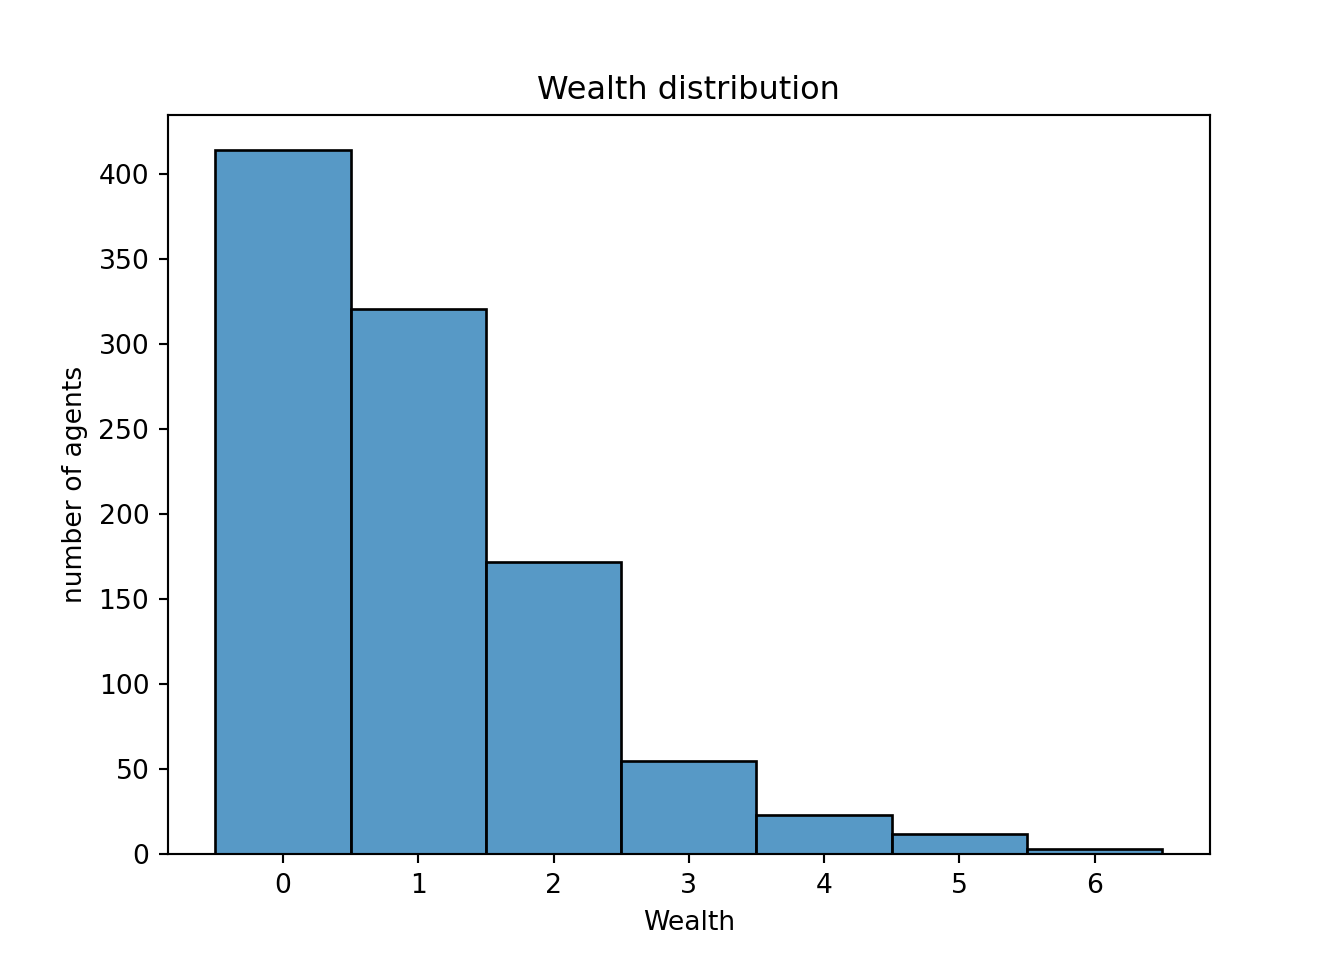
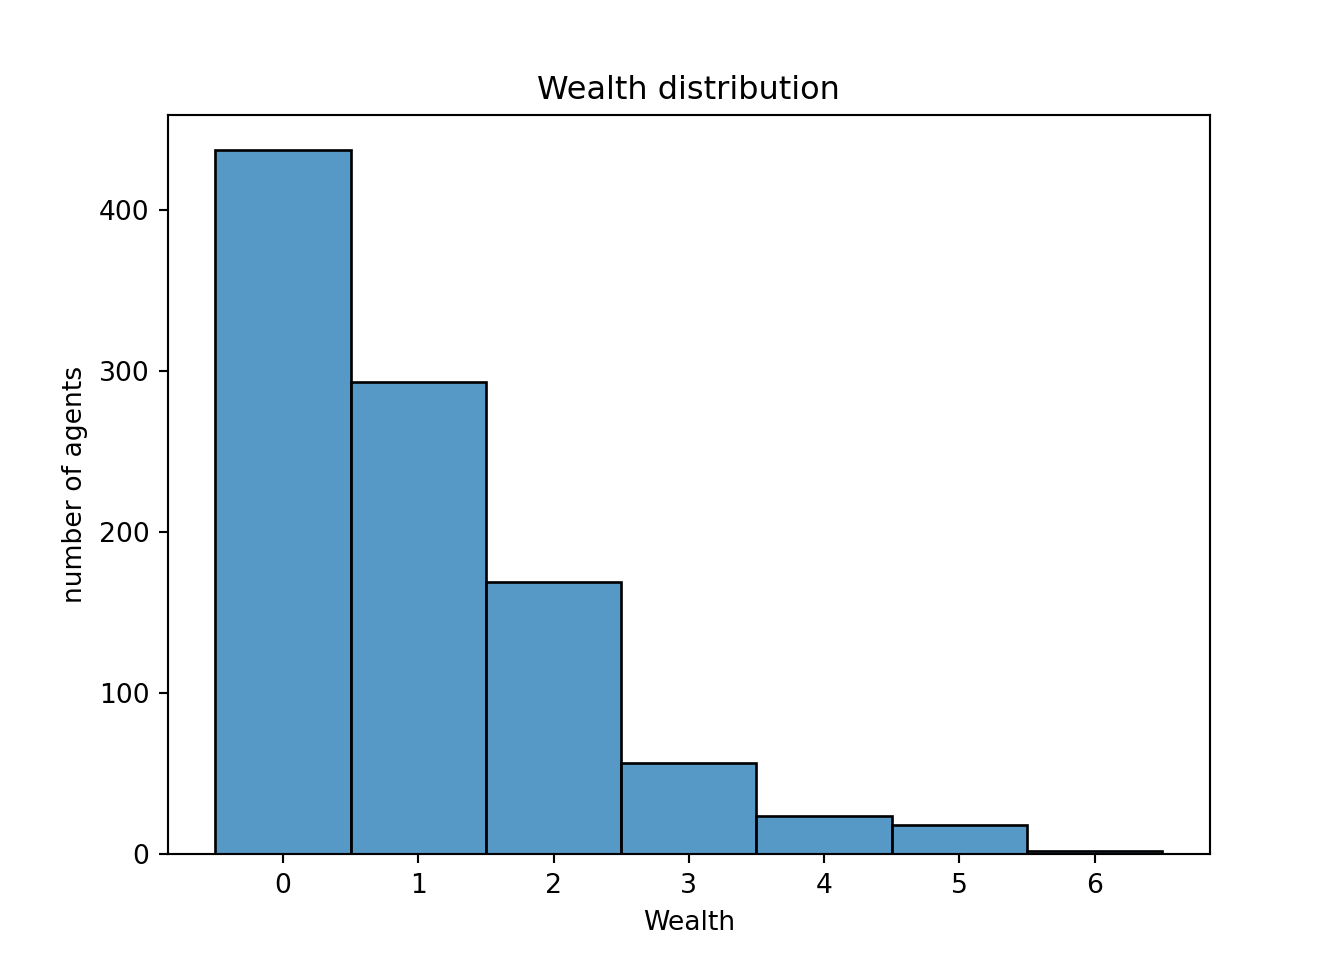
update

diff --git a/docs/index.html b/docs/index.html
@@ -318,16 +318,16 @@ pre > code.sourceCode > span > a:first-child::before { text-decoration: underlin
 <span id="cb7-5"><a href="#cb7-5" aria-hidden="true" tabindex="-1"></a><span class="co">#运行模型的 step 方法，激活所有 Agent</span></span>
 <span id="cb7-6"><a href="#cb7-6" aria-hidden="true" tabindex="-1"></a>starter_model.step()</span></code><button title="Copy to Clipboard" class="code-copy-button"><i class="bi"></i></button></pre></div>
 <div class="cell-output cell-output-stdout">
-<pre><code>Hi, I am an agent, you can call me 10.
-Hi, I am an agent, you can call me 1.
+<pre><code>Hi, I am an agent, you can call me 5.
 Hi, I am an agent, you can call me 8.
-Hi, I am an agent, you can call me 2.
-Hi, I am an agent, you can call me 4.
-Hi, I am an agent, you can call me 9.
+Hi, I am an agent, you can call me 10.
 Hi, I am an agent, you can call me 6.
 Hi, I am an agent, you can call me 7.
-Hi, I am an agent, you can call me 5.
-Hi, I am an agent, you can call me 3.</code></pre>
+Hi, I am an agent, you can call me 9.
+Hi, I am an agent, you can call me 3.
+Hi, I am an agent, you can call me 1.
+Hi, I am an agent, you can call me 4.
+Hi, I am an agent, you can call me 2.</code></pre>
 </div>
 </div>
 <p>如果在创建对象时传入了 seed 参数，则每次运行模型时 Agent 的顺序会保持一致。</p>
@@ -382,16 +382,16 @@ Hi, I am an agent, you can call me 8.</code></pre>
 <span id="cb11-28"><a href="#cb11-28" aria-hidden="true" tabindex="-1"></a>starter_model <span class="op">=</span> MoneyModel(<span class="dv">10</span>)</span>
 <span id="cb11-29"><a href="#cb11-29" aria-hidden="true" tabindex="-1"></a>starter_model.step()</span></code><button title="Copy to Clipboard" class="code-copy-button"><i class="bi"></i></button></pre></div>
 <div class="cell-output cell-output-stdout">
-<pre><code>Hi, I am an agent 3,and I have 1 dollars.
-Hi, I am an agent 10,and I have 1 dollars.
-Hi, I am an agent 6,and I have 1 dollars.
-Hi, I am an agent 4,and I have 1 dollars.
-Hi, I am an agent 9,and I have 1 dollars.
-Hi, I am an agent 2,and I have 1 dollars.
-Hi, I am an agent 7,and I have 1 dollars.
+<pre><code>Hi, I am an agent 1,and I have 1 dollars.
 Hi, I am an agent 8,and I have 1 dollars.
-Hi, I am an agent 1,and I have 1 dollars.
-Hi, I am an agent 5,and I have 1 dollars.</code></pre>
+Hi, I am an agent 3,and I have 1 dollars.
+Hi, I am an agent 9,and I have 1 dollars.
+Hi, I am an agent 7,and I have 1 dollars.
+Hi, I am an agent 2,and I have 1 dollars.
+Hi, I am an agent 10,and I have 1 dollars.
+Hi, I am an agent 4,and I have 1 dollars.
+Hi, I am an agent 5,and I have 1 dollars.
+Hi, I am an agent 6,and I have 1 dollars.</code></pre>
 </div>
 </div>
 </section>
@@ -539,11 +539,11 @@ Hi, I am an agent 5,and I have 1 dollars.</code></pre>
   wealth
    &lt;int&gt;
 1      0
-2      5
-3      0
+2      1
+3      1
 4      0
-5      2
-6      1</code></pre>
+5      4
+6      0</code></pre>
 </div>
 <div class="sourceCode cell-code" id="cb22"><pre class="sourceCode r code-with-copy"><code class="sourceCode r"><span id="cb22-1"><a href="#cb22-1" aria-hidden="true" tabindex="-1"></a><span class="fu">ggplot</span>(all_wealth_r, <span class="fu">aes</span>(<span class="at">x =</span> wealth)) <span class="sc">+</span></span>
 <span id="cb22-2"><a href="#cb22-2" aria-hidden="true" tabindex="-1"></a>  <span class="fu">geom_histogram</span>(<span class="at">binwidth =</span> <span class="dv">1</span>, <span class="at">boundary =</span> <span class="dv">0</span>, <span class="at">closed =</span> <span class="st">"left"</span>,</span>
@@ -638,7 +638,36 @@ Hi, I am an agent 5,and I have 1 dollars.</code></pre>
 <li><p>FixedAgent: 永久固定在单元格上的静止 Agent。</p></li>
 <li><p>Grid2DMovingAgent: 具有特定网格移动能力的 Agent。</p></li>
 </ul>
-<p><img src="./images/Discrete_Space.webp" class="img-fluid" alt="Discrete Space">。</p>
+<div class="quarto-figure quarto-figure-center">
+<figure class="figure">
+<p><img src="./images/Discrete_Space.webp" class="img-fluid figure-img"></p>
+<figcaption>Discrete Space</figcaption>
+</figure>
+</div>
+<ul>
+<li><p>网格 (Grid): 规则多边形</p>
+<ul>
+<li><p>摩尔邻域 (Moore Grid)：每个单元格的八个相邻单元格。</p></li>
+<li><p>冯诺依曼邻域 (Von Neumann Grid)：每个单元格的四个相邻单元格。</p></li>
+<li><p>六边形 (Hex Grid)：每个单元格的六个相邻单元格。</p></li>
+</ul></li>
+<li><p>网络 (Network): 每个格点是图中的一个节点，连接关系由边（edge）定义，适合社交网络、通信拓扑等场景。</p></li>
+</ul>
+<div class="quarto-figure quarto-figure-center">
+<figure class="figure">
+<p><img src="./images/images.png" class="img-fluid figure-img" width="500"></p>
+<figcaption>Network</figcaption>
+</figure>
+</div>
+<ul>
+<li>Voronoi: 不规则多边形划分空间：给定一组中心点，每块多边形就是一个 Cell，适用于地理空间等不规则网格情形。</li>
+</ul>
+<div class="quarto-figure quarto-figure-center">
+<figure class="figure">
+<p><img src="./images/1_aYqqekIblklLxV7yKnBKaQ.png" class="img-fluid figure-img" width="500"></p>
+<figcaption>Voronoi</figcaption>
+</figure>
+</div>
 
 
 </section>
